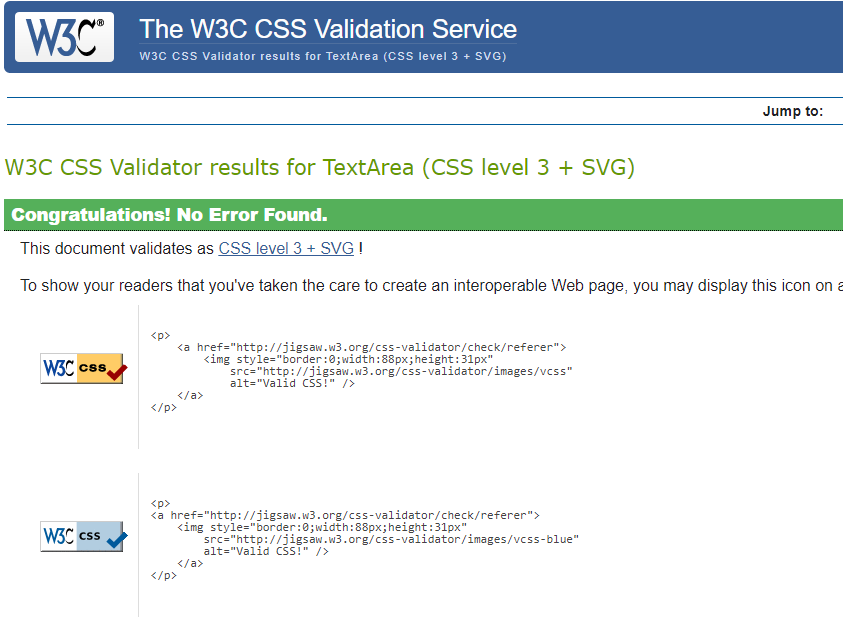
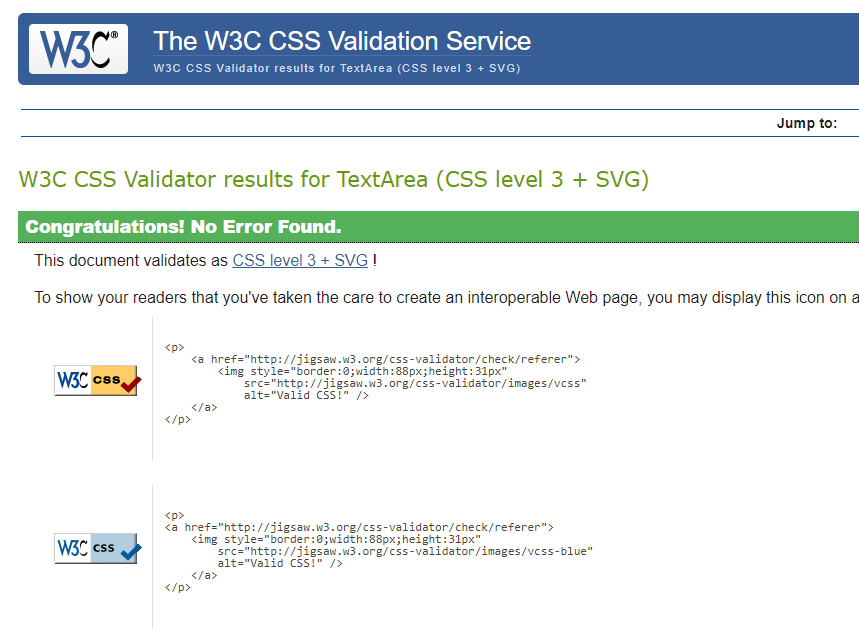
Remove unused code and update base css validation screenshot.

diff --git a/static/css/base.css b/static/css/base.css
@@ -6,7 +6,7 @@ body {
     display: flex;
     flex-direction: column;
     min-height: 100vh;
-    background: rgb(243, 237, 237);
+    background: #F3EDED;
     background-size: cover;
     color: #555;
 }
@@ -51,11 +51,11 @@ main {
 }
 
 .btt-button {
-    height: 42px;
-    width: 42px;
+    height: 2.6rem;
+    width: 2.6rem;
     position: fixed;
-    bottom: 10px;
-    right: 10px;
+    bottom: 0.625rem;
+    right: 0.625rem;
 }
 
 .btt-link,
@@ -78,8 +78,8 @@ main {
 
 .message-container {
     position: fixed;
-    top: 72px;
-    right: 15px;
+    top: 4.5rem;
+    right: 1rem;
     z-index: 99999999999;
 }
 
@@ -124,9 +124,8 @@ main {
 }
 
 .footer-links a{
-    color: rgb(0, 0, 255);
+    color: #0000FF;
 }
-
 
 /* Media Queries */
 
@@ -189,4 +188,3 @@ main {
         font-size: 1.25rem;
     }
 }
-

diff --git a/templates/allauth/account/base.html b/templates/allauth/account/base.html
@@ -1,8 +1,7 @@
 {% extends "base.html" %}
 
 {% block content %}
-    <div class="container header-container">
-        <div class="overlay"></div>
+    <div class="container header-container">     
         <div class="row">
             <div class="col-12">
                 <div class="allauth-form-inner-content">

diff --git a/templates/includes/messages/success-message.html b/templates/includes/messages/success-message.html
@@ -1,5 +1,4 @@
 <div class="toast custom-toast rounded-0 border-top-0" data-autohide="false">
-    <div class="arrow-up arrow-success"></div>
     <div class="w-100 toast-capper bg-success"></div>
     <div class="toast-header bg-white text-dark">
         <strong class="mr-auto">Success!</strong>

diff --git a/templates/includes/messages/warning-message.html b/templates/includes/messages/warning-message.html
@@ -1,5 +1,4 @@
 <div class="toast custom-toast rounded-0 border-top-0" data-autohide="false">
-    <div class="arrow-up arrow-warning"></div>
     <div class="w-100 toast-capper bg-warning"></div>
     <div class="toast-header bg-white text-dark">
         <strong class="mr-auto">Warning!</strong>

diff --git a/templates/includes/messages/error-message.html b/templates/includes/messages/error-message.html
@@ -1,5 +1,4 @@
 <div class="toast custom-toast rounded-0 border-top-0" data-autohide="false">
-    <div class="arrow-up arrow-danger"></div>
     <div class="w-100 toast-capper bg-danger"></div>
     <div class="toast-header bg-white text-dark">
         <strong class="mr-auto">Error!</strong>

diff --git a/templates/includes/messages/info-message.html b/templates/includes/messages/info-message.html
@@ -1,5 +1,4 @@
 <div class="toast custom-toast rounded-0 border-top-0" data-autohide="false">
-    <div class="arrow-up arrow-info"></div>
     <div class="w-100 toast-capper bg-info"></div>
     <div class="toast-header bg-white text-dark">
         <strong class="mr-auto">Alert!</strong>

diff --git a/products/templates/products/edit-product.html b/products/templates/products/edit-product.html
@@ -9,8 +9,7 @@
     </div>
 {% endblock %}
 
-{% block content %}
-    <div class="overlay"></div>
+{% block content %}  
     <div class="container">
         <div class="row justify-content-center">
             <div class="col-12 col-md-6 text-center">

diff --git a/products/templates/products/add-product.html b/products/templates/products/add-product.html
@@ -9,8 +9,7 @@
     </div>
 {% endblock %}
 
-{% block content %}
-    <div class="overlay"></div>
+{% block content %} 
     <div class="container">
         <div class="row justify-content-center">
             <div class="col-12 col-md-6 text-center">

diff --git a/cart/templates/cart/cart.html b/cart/templates/cart/cart.html
@@ -10,8 +10,7 @@
     </div>
 {% endblock %}
 
-{% block content %}
-    <div class="overlay"></div>
+{% block content %}  
     <div class="container p-4">
         <div class="row">
             <div class="col">

diff --git a/profiles/templates/profiles/profile.html b/profiles/templates/profiles/profile.html
@@ -13,8 +13,7 @@
     </div>
 {% endblock %}
 
-{% block content %}
-    <div class="overlay"></div>
+{% block content %} 
     <div class="container p-4">
         <div class="row">
             <div class="col">

diff --git a/products/templates/products/product-detail.html b/products/templates/products/product-detail.html
@@ -10,7 +10,6 @@
 {% endblock %}
 
 {% block content %}
-<div class="overlay"></div>
 <div class="container-fluid">
     <div class="row mt-2">
         <div class="col-12 col-sm-6 col-md-6 col-lg-4 offset-lg-2">

diff --git a/checkout/templates/checkout/checkout-success.html b/checkout/templates/checkout/checkout-success.html
@@ -14,7 +14,6 @@
 {% endblock %}
 
 {% block content %}
-    <div class="overlay"></div>
     <div class="container p-4">
         <div class="row">
             <div class="col text-center">
